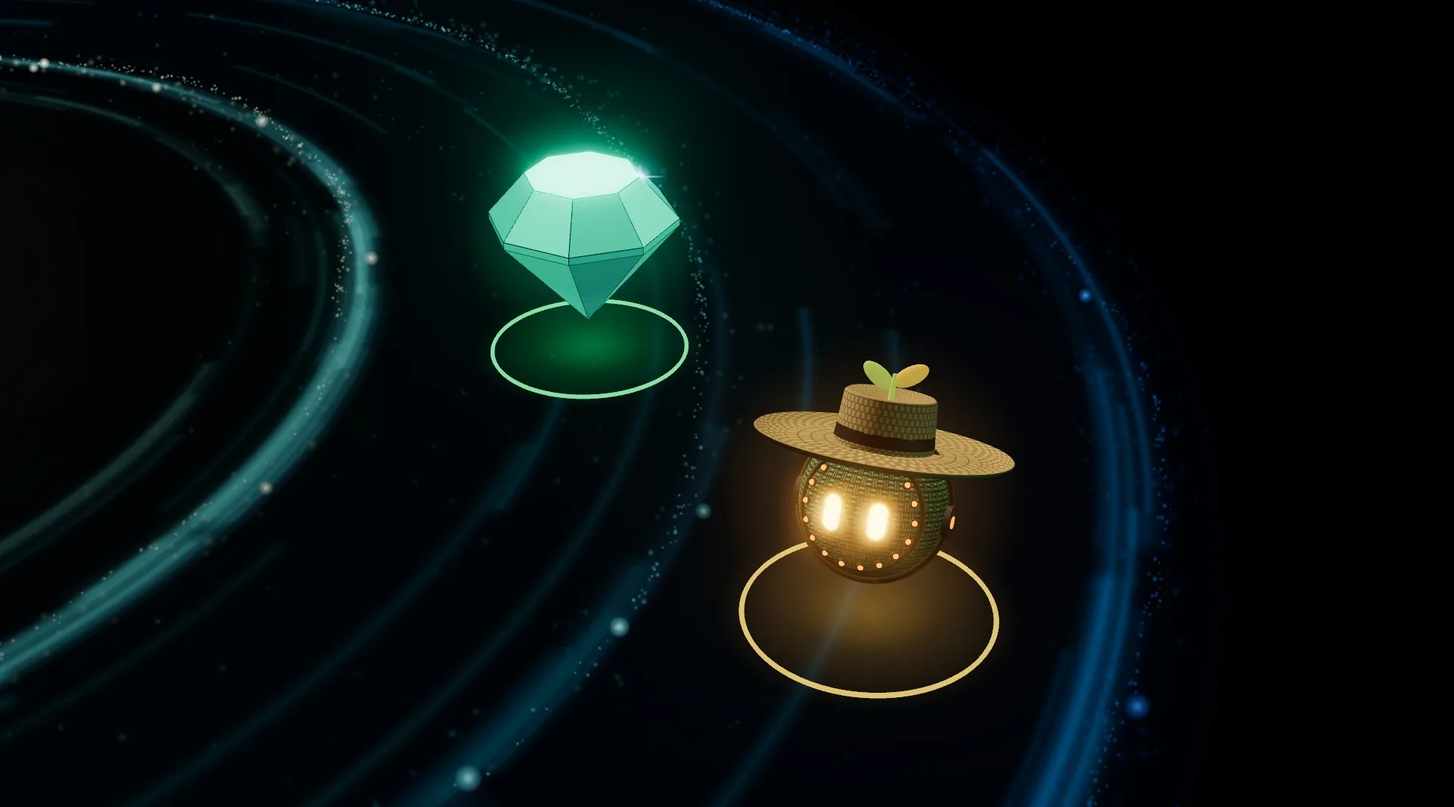
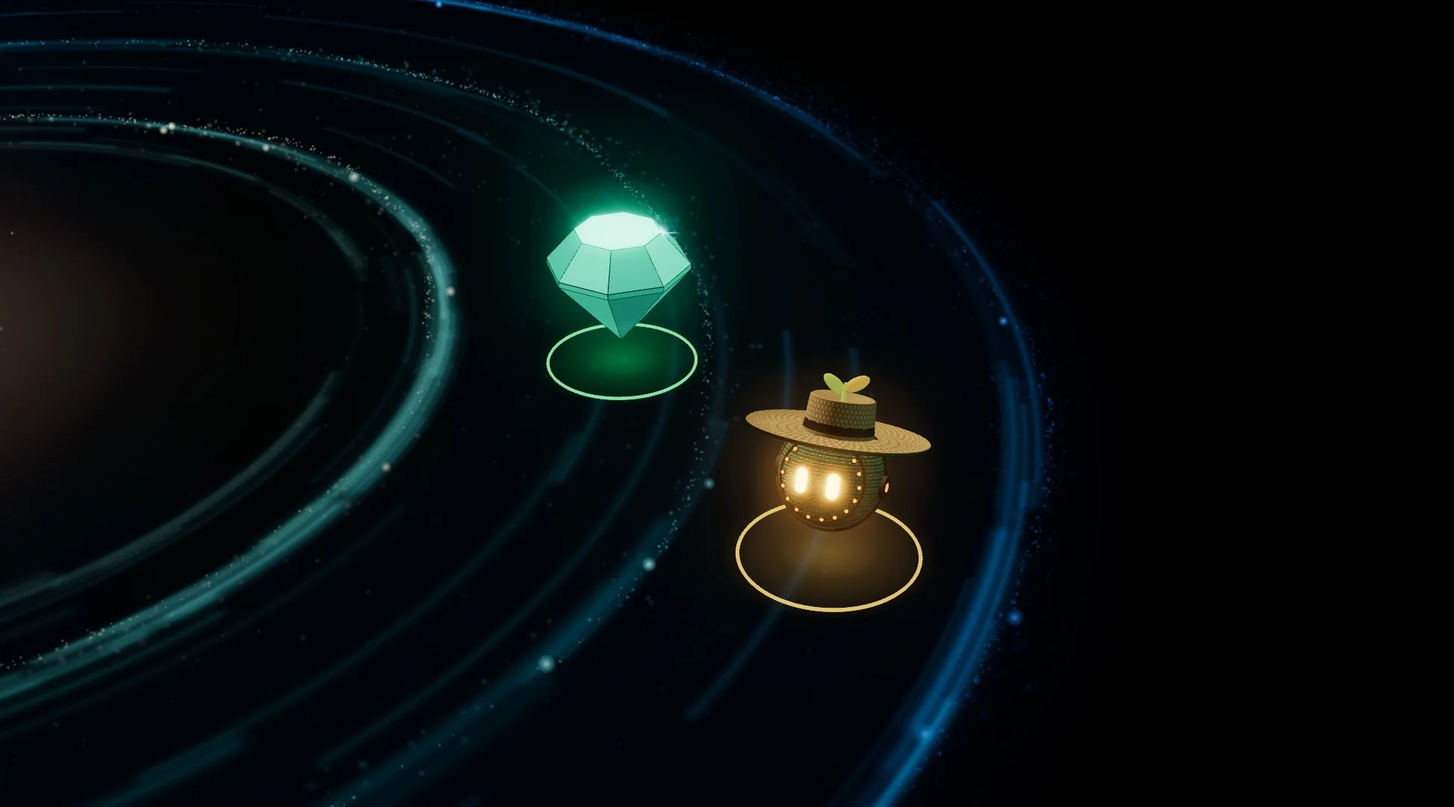
Cymetica Quest steps page, the fourteenth take's second round (the operator: "step 3 to je zas moc velke na orbite ty produkty trochu je zmensi a misto screenu z promo marketu tam dej jen tu 3D krychli a na ni se budou promitat ty produkty", "animace v quant labu ... je takova sekana, mela by byt to
Effort: xhigh

diff --git a/outbox/quest-steps/quest.css b/outbox/quest-steps/quest.css
@@ -132,7 +132,7 @@ h1 b { font-weight: 400; }
 .hero-in .board-wrap { justify-self: end; width: min(100%, 660px); }
 /* Cymetica's sun alone, further off and to the right ("vic doprava a vic do dalky ... vic zarivejsi, ted v nem jsou
    diry"): its light as alpha, over a whole glowing core, so the dark between its strands no longer shows the sky */
-#sun { position: absolute; z-index: 1; left: calc(50% + 810px); top: 160px; width: 340px; transform: translate(-50%, -50%); pointer-events: none; }
+#sun { position: absolute; z-index: 1; left: calc(50% + 918px); top: 268px; width: 340px; transform: translate(-50%, -50%); pointer-events: none; }
 #sun::before { content: ''; position: absolute; left: 49.3%; top: 48.3%; width: 25%; height: 25%; transform: translate(-50%, -50%); border-radius: 50%;
   background: radial-gradient(circle, #fffdf6 0 32%, rgba(255, 232, 186, .96) 52%, rgba(255, 196, 120, .55) 74%, rgba(255, 170, 80, 0) 100%);
   box-shadow: 0 0 34px 12px rgba(255, 214, 150, .5), 0 0 110px 40px rgba(255, 176, 96, .2), 0 0 220px 80px rgba(0, 207, 255, .06); }
@@ -370,33 +370,55 @@ h1 b { font-weight: 400; }
    vetsi at je to stejne jako na jinych krocich"): each its own half, apart, as big as the other steps' pictures allow
    two to be; the Promo Market turned only a little, towards the words, so it reads. Fourteenth take ("ty obezne
    drahy na kterych jsou apky ... jsou asi moc nahore"): the Universe in the middle of the band, big (its right quarter
-   is empty space, so the Promo Market stands in it at the band's foot), its edges melting into the page, the users
-   walking up from the briefs into the farmer's ring */
+   is empty space, so the Promo Market's cube stands beside it), its edges melting into the page, the users walking
+   from the cube into the farmer's ring; the second round, the farmer and the gem filmed from further off ("je zas moc
+   velke na orbite ty produkty trochu je zmensi") */
 .stage.duo { position: relative; perspective: 1600px; width: 134%; margin-left: -24%; height: 700px; }
 .stage.duo .near { position: absolute; z-index: 1; left: 0; top: 50%; width: 80%; transform: translateY(-52%); }
 .stage.duo .near .clip { -webkit-mask-image: linear-gradient(90deg, transparent, #000 9%, #000 88%, transparent), linear-gradient(180deg, transparent, #000 8%, #000 90%, transparent);
   mask-image: linear-gradient(90deg, transparent, #000 9%, #000 88%, transparent), linear-gradient(180deg, transparent, #000 8%, #000 90%, transparent);
   -webkit-mask-composite: source-in; mask-composite: intersect; }
-.stage.duo .promo3d { position: absolute; z-index: 2; right: 0; bottom: 0; width: 42%; }
-.promo3d { position: relative; z-index: 1; transform: rotateY(-14deg) rotateX(4deg) rotateZ(.8deg) scale(.96); transform-origin: 0% 50%; }
-/* their cube, turning as their page turns it (record.py promo_cube), laid where it stands in the picture; its box's
-   edge melts into the picture round it */
-.promo3d .cube { position: absolute; z-index: 1; opacity: .9;
-  -webkit-mask-image: radial-gradient(closest-side, #000 72%, transparent 100%); mask-image: radial-gradient(closest-side, #000 72%, transparent 100%); }
-.promo3d .cube video { width: 100%; height: 100%; object-fit: fill; filter: saturate(1.1) brightness(1.06); }
-.promo3d img { width: 100%; mix-blend-mode: screen; opacity: .9; filter: saturate(1.1) brightness(1.06) drop-shadow(0 0 22px rgba(0, 207, 255, .35));
-  -webkit-mask-image: repeating-linear-gradient(180deg, #000 0 2px, rgba(0, 0, 0, .7) 2px 4px), linear-gradient(90deg, transparent, #000 6%, #000 96%, transparent), linear-gradient(180deg, transparent, #000 5%, #000 88%, transparent);
-  mask-image: repeating-linear-gradient(180deg, #000 0 2px, rgba(0, 0, 0, .7) 2px 4px), linear-gradient(90deg, transparent, #000 6%, #000 96%, transparent), linear-gradient(180deg, transparent, #000 5%, #000 88%, transparent);
-  -webkit-mask-composite: source-in, source-in; mask-composite: intersect; }
-.promo3d::after { content: ''; position: absolute; left: 4%; right: 4%; bottom: -8%; height: 18%; pointer-events: none;
-  background: radial-gradient(closest-side, rgba(0, 207, 255, .28), rgba(0, 207, 255, 0)); filter: blur(8px); }
+/* the Promo Market's cube, big, in place of its page (fourteenth take's second round: "misto screenu z promo marketu
+   tam dej jen tu 3D krychli a na ni se budou promitat ty produkty"): their glass cube of light on its beam, turning,
+   a product's live page projected on each of its four sides; drawn in CSS 3D, so it is sharp at any size and turns at
+   the screen's own rate */
+.cube3d { --h: 6.5vw; position: absolute; z-index: 2; right: 2%; top: 50%; width: 36%; aspect-ratio: 1; margin: 0; transform: translateY(-50%); perspective: 2600px; perspective-origin: 50% 42%; pointer-events: none; }
+.cube3d .halo { position: absolute; inset: 10%; border-radius: 50%; background: radial-gradient(closest-side, rgba(0, 207, 255, .2), rgba(0, 255, 136, .05) 62%, rgba(0, 207, 255, 0)); filter: blur(12px); }
+.cube3d .beam { position: absolute; left: 50%; top: 64%; width: 18%; height: 28%; transform: translateX(-50%); clip-path: polygon(32% 0, 68% 0, 100% 100%, 0 100%);
+  background: linear-gradient(180deg, rgba(0, 207, 255, .32), rgba(0, 207, 255, .08) 70%, rgba(0, 207, 255, 0)); filter: blur(4px); }
+.cube3d .floor { position: absolute; left: 24%; right: 24%; bottom: 3%; height: 9%; border-radius: 50%; background: radial-gradient(closest-side, rgba(0, 255, 136, .32), rgba(0, 207, 255, .1) 62%, rgba(0, 207, 255, 0)); filter: blur(4px); }
+.cube3d .cb { position: absolute; left: 50%; top: 44%; width: calc(var(--h) * 2); height: calc(var(--h) * 2); margin: calc(var(--h) * -1) 0 0 calc(var(--h) * -1);
+  transform-style: preserve-3d; transform: rotateX(-17deg) rotateZ(-7deg); }
+.cube3d .sp { position: absolute; inset: 0; transform-style: preserve-3d; animation: cubespin 32s linear infinite; }
+@keyframes cubespin { from { transform: rotateY(0deg); } to { transform: rotateY(-360deg); } }
+.cube3d .f { position: absolute; inset: 0; border-radius: 6px; }
+.cube3d .fr { transform: translateZ(var(--h)); }
+.cube3d .bk { transform: rotateY(180deg) translateZ(var(--h)); }
+.cube3d .rt { transform: rotateY(90deg) translateZ(var(--h)); }
+.cube3d .lf { transform: rotateY(-90deg) translateZ(var(--h)); }
+.cube3d .tp { transform: rotateX(90deg) translateZ(var(--h)); }
+.cube3d .bt { transform: rotateX(-90deg) translateZ(var(--h)); }
+/* the glass: every side, seen through from behind too */
+.cube3d .g { border: 1.5px solid rgba(110, 235, 255, .55); background: linear-gradient(155deg, rgba(0, 207, 255, .2), rgba(0, 255, 136, .05) 55%, rgba(0, 207, 255, .15));
+  box-shadow: inset 0 0 36px rgba(0, 207, 255, .26), 0 0 22px rgba(0, 207, 255, .2); }
+.cube3d .tp { background: radial-gradient(closest-side, rgba(120, 255, 220, .3), rgba(0, 207, 255, .1)); }
+/* a product projected on a side: only from the front, a hair in front of the glass, with the hologram's lines */
+.cube3d .p { display: flex; flex-direction: column; justify-content: center; align-items: center; gap: 7%; padding: 0 7%; -webkit-backface-visibility: hidden; backface-visibility: hidden; }
+.cube3d .p.fr { transform: translateZ(calc(var(--h) + 1px)); }
+.cube3d .p.bk { transform: rotateY(180deg) translateZ(calc(var(--h) + 1px)); }
+.cube3d .p.rt { transform: rotateY(90deg) translateZ(calc(var(--h) + 1px)); }
+.cube3d .p.lf { transform: rotateY(-90deg) translateZ(calc(var(--h) + 1px)); }
+.cube3d .p img { width: 100%; height: auto; border-radius: 4px; opacity: .93; filter: saturate(1.15) brightness(1.08); box-shadow: 0 0 22px rgba(0, 207, 255, .38); }
+.cube3d .p::after { content: ''; position: absolute; inset: 0; border-radius: 6px; background: repeating-linear-gradient(180deg, rgba(0, 0, 0, 0) 0 2px, rgba(0, 10, 18, .2) 2px 4px); }
+.cube3d .p b { font: 800 max(9px, .62vw) 'JetBrains Mono', monospace; letter-spacing: .16em; text-transform: uppercase; color: #dffcff; text-shadow: 0 0 10px rgba(0, 207, 255, .85); white-space: nowrap; }
+@media (prefers-reduced-motion: reduce) { .cube3d .sp { animation: none; transform: rotateY(-30deg); } }
 .nm { position: absolute; z-index: 3; display: inline-flex; align-items: center; gap: 8px; transform: translate(-50%, -100%); padding: 5px 12px; border-radius: 7px;
   font: 800 16px 'JetBrains Mono'; letter-spacing: .1em; text-transform: uppercase; color: #ffffff; white-space: nowrap;
   background: rgba(5, 7, 12, .78); border: 1px solid rgba(0, 255, 136, .5); box-shadow: 0 0 18px rgba(0, 255, 136, .18); }
 .nm i { width: 8px; height: 8px; border-radius: 50%; background: var(--green); box-shadow: 0 0 10px var(--green); }
-.users { position: absolute; z-index: 3; left: 53%; top: 84%; font: 700 18px 'JetBrains Mono'; color: var(--dim); text-shadow: 0 2px 12px rgba(0, 0, 0, .95); }
+.users { position: absolute; z-index: 3; left: 50%; top: 82%; font: 700 18px 'JetBrains Mono'; color: var(--dim); text-shadow: 0 2px 12px rgba(0, 0, 0, .95); }
 .users b { font: 400 30px 'Archivo Black', sans-serif; color: var(--green); margin-right: 6px; text-shadow: 0 0 18px rgba(0, 255, 136, .6); }
-.plus { position: absolute; z-index: 4; left: 58%; top: 79%; font: 800 20px 'JetBrains Mono'; color: var(--green); opacity: 0; pointer-events: none;
+.plus { position: absolute; z-index: 4; left: 57%; top: 74%; font: 800 20px 'JetBrains Mono'; color: var(--green); opacity: 0; pointer-events: none;
   text-shadow: 0 0 14px rgba(0, 255, 136, .9), 0 2px 10px rgba(0, 0, 0, .9); }
 .plus.go { animation: plus 1.6s var(--ease) forwards; }
 @keyframes plus { 0% { opacity: 0; transform: translate(-50%, 0) scale(.7); } 20% { opacity: 1; transform: translate(-50%, -14px) scale(1.05); } 100% { opacity: 0; transform: translate(-50%, -60px) scale(1); } }
@@ -410,8 +432,12 @@ h1 b { font-weight: 400; }
    vetsi mnohem ten vesmir a ta tabule v nem jakoby mensi, podobne jak to je v live aplikaci"): the whole map, never
    cut (record.py films it with the sun in the middle and room round its outer lane), 1,250 px across at 2000, as far
    left as the words allow (the lane's edge clears "Earn monthly rewards." by 50 px); the board as the live map has its
-   own: small, tilted, in the map's corner over its outer lane, where no company stands (bottom right) */
-.stage.uni .pic { width: 137%; margin-left: -28%; }
+   own: small, tilted, in the map's corner over its outer lane, where no company stands (bottom right). Its second
+   round ("krok 5 musis dat cely universe dolu niz a vedle texty na opacnou stranu otoceny ten screen a to vetsi"): the
+   Universe lowered, the board beside the words above it, turned the other way (towards the map, as the live map's own
+   board is turned), as big as the first screen's nearly */
+#s5 { padding-bottom: 300px; }
+.stage.uni .pic { width: 137%; margin-left: -28%; transform: translateY(var(--uv-down, 270px)); }
 /* under each Universe, filmed on black and keyed, a dark as its own sky was ("tu obeznou drahu top jak byla
    predtim"): its lanes are light of 2 to 7 %, which the page's nebula would wash out; melting away well inside the
    picture, so it has no edge */
@@ -424,40 +450,40 @@ h1 b { font-weight: 400; }
    2026-10-31's fourteenth take) */
 .stage.uni .sun { position: absolute; z-index: 2; left: 50.55%; top: 38.78%; width: 30.5%; transform: translate(-50%, -50%); pointer-events: none; }
 .stage.uni .sun img { width: 100%; }
-.lb-wrap { position: absolute; z-index: 3; right: -9%; top: 65%; width: 300px; perspective: 1400px; perspective-origin: 100% 40%; }
-.lb { padding: 14px 10px 8px; border-radius: 18px; transform: rotateY(-14deg) rotateX(3deg); transform-origin: 100% 50%;
+.lb-wrap { position: absolute; z-index: 3; left: -12.5%; top: -9%; width: 370px; perspective: 1400px; perspective-origin: 0% 40%; }
+.lb { padding: 18px 13px 10px; border-radius: 22px; transform: rotateY(14deg) rotateX(3deg); transform-origin: 0% 50%;
   background: linear-gradient(180deg, rgba(5, 9, 15, .58), rgba(5, 9, 15, .4)); }
 .lb .gh { padding: 0 8px; }
-.lb .gh b { font-size: 15px; }
-.lb .gh .tg { font-size: 9.5px; color: var(--cyan); }
-.lb .gh .dot { width: 8px; height: 8px; animation: blink 1.6s steps(1) infinite; }
+.lb .gh b { font-size: 19px; }
+.lb .gh .tg { font-size: 11.5px; color: var(--cyan); }
+.lb .gh .dot { width: 9px; height: 9px; animation: blink 1.6s steps(1) infinite; }
 /* a row as the first screen's seats: the place, the station, the name over its points, the prize */
-.climb { position: relative; margin-top: 8px; height: calc(6 * 40px); }
-.row { position: absolute; left: 0; right: 0; top: 0; height: 40px; display: grid; grid-template-columns: 22px 26px minmax(0, 1fr) auto; grid-template-rows: auto auto;
-  grid-template-areas: "rk bd nm pz" "rk bd pp pz"; align-content: center; align-items: center; column-gap: 7px; row-gap: 1px;
-  padding: 0 8px; border-radius: 9px; transition: transform .7s var(--ease), background .4s, box-shadow .4s; }
+.climb { position: relative; margin-top: 10px; height: calc(6 * 50px); }
+.row { position: absolute; left: 0; right: 0; top: 0; height: 50px; display: grid; grid-template-columns: 28px 32px minmax(0, 1fr) auto; grid-template-rows: auto auto;
+  grid-template-areas: "rk bd nm pz" "rk bd pp pz"; align-content: center; align-items: center; column-gap: 9px; row-gap: 2px;
+  padding: 0 10px; border-radius: 11px; transition: transform .7s var(--ease), background .4s, box-shadow .4s; }
 .row .rk { grid-area: rk; } .row .badge { grid-area: bd; } .row .nm { grid-area: nm; } .row .pp { grid-area: pp; } .row .pz { grid-area: pz; }
 .row + .row::before { content: ''; position: absolute; left: 10px; right: 10px; top: 0; height: 1px; background: linear-gradient(90deg, rgba(255, 255, 255, 0), rgba(255, 255, 255, .14), rgba(255, 255, 255, 0)); }
-.row .rk { font: 400 16px 'Archivo Black', sans-serif; color: var(--mute); text-align: center; background: none; filter: none; -webkit-background-clip: initial; background-clip: initial; }
+.row .rk { font: 400 20px 'Archivo Black', sans-serif; color: var(--mute); text-align: center; background: none; filter: none; -webkit-background-clip: initial; background-clip: initial; }
 /* the three paid places' numbers as the first screen's board has them, lit from inside */
-.row.p1 .rk, .row.p2 .rk, .row.p3 .rk { font-size: 20px; color: transparent; -webkit-background-clip: text; background-clip: text; }
+.row.p1 .rk, .row.p2 .rk, .row.p3 .rk { font-size: 25px; color: transparent; -webkit-background-clip: text; background-clip: text; }
 .row.p1 .rk { background-image: linear-gradient(180deg, #eafff4, var(--rs1) 55%, #00a067); filter: drop-shadow(0 0 12px rgba(0, 255, 136, .65)); }
 .row.p2 .rk { background-image: linear-gradient(180deg, #e6fbff, var(--rs2) 55%, #0086b5); filter: drop-shadow(0 0 10px rgba(0, 207, 255, .55)); }
 .row.p3 .rk { background-image: linear-gradient(180deg, #e3edff, var(--rs3) 55%, #1d4ea8); filter: drop-shadow(0 0 9px rgba(59, 130, 246, .5)); }
-.row .badge { width: 24px; height: 24px; border-radius: 50%; overflow: hidden; background: #07101c; box-shadow: inset 0 0 0 1px rgba(255, 255, 255, .3), 0 0 0 2px rgba(30, 48, 80, .9); }
+.row .badge { width: 30px; height: 30px; border-radius: 50%; overflow: hidden; background: #07101c; box-shadow: inset 0 0 0 1px rgba(255, 255, 255, .3), 0 0 0 2px rgba(30, 48, 80, .9); }
 .row.p1 .badge { box-shadow: inset 0 0 0 1px rgba(255, 255, 255, .4), 0 0 0 2px var(--rs1), 0 0 16px rgba(0, 255, 136, .45); }
 .row.p2 .badge { box-shadow: inset 0 0 0 1px rgba(255, 255, 255, .4), 0 0 0 2px var(--rs2), 0 0 14px rgba(0, 207, 255, .4); }
 .row.p3 .badge { box-shadow: inset 0 0 0 1px rgba(255, 255, 255, .4), 0 0 0 2px var(--rs3), 0 0 12px rgba(59, 130, 246, .4); }
 .row .badge img { width: 100%; height: 100%; object-fit: cover; transform: scale(1.55); }
 .row .nm { position: static; transform: none; padding: 0; border: 0; background: none; box-shadow: none; text-transform: none; letter-spacing: 0;
-  font: 700 11.5px Inter, sans-serif; color: var(--text); overflow: hidden; text-overflow: ellipsis; display: flex; align-items: center; gap: 5px; white-space: nowrap; }
-.row .nm em { flex: none; font: 800 7.5px 'JetBrains Mono'; font-style: normal; letter-spacing: .12em; text-transform: uppercase; padding: 1px 4px; border-radius: 4px; color: #03140c; background: var(--green); }
-.row .pp { display: flex; align-items: center; gap: 5px; font: 600 9.5px 'JetBrains Mono'; color: var(--mute); white-space: nowrap; }
-.row .pp b { font: 800 11px 'JetBrains Mono'; color: var(--text); }
-.row .bar { position: relative; width: 30px; height: 3px; border-radius: 3px; background: rgba(30, 48, 80, .9); overflow: hidden; }
+  font: 700 13.5px Inter, sans-serif; color: var(--text); overflow: hidden; text-overflow: ellipsis; display: flex; align-items: center; gap: 5px; white-space: nowrap; }
+.row .nm em { flex: none; font: 800 8.5px 'JetBrains Mono'; font-style: normal; letter-spacing: .12em; text-transform: uppercase; padding: 1px 4px; border-radius: 4px; color: #03140c; background: var(--green); }
+.row .pp { display: flex; align-items: center; gap: 6px; font: 600 11px 'JetBrains Mono'; color: var(--mute); white-space: nowrap; }
+.row .pp b { font: 800 13px 'JetBrains Mono'; color: var(--text); }
+.row .bar { position: relative; width: 38px; height: 4px; border-radius: 3px; background: rgba(30, 48, 80, .9); overflow: hidden; }
 .row .bar i { position: absolute; left: 0; top: 0; bottom: 0; border-radius: 3px; background: linear-gradient(90deg, var(--cyan), var(--blue)); }
 .row.paid .bar i { background: linear-gradient(90deg, var(--cyan), var(--green)); }
-.row .pz { min-width: 0; font: 800 10.5px 'JetBrains Mono'; text-align: right; color: var(--mute); white-space: nowrap; }
+.row .pz { min-width: 0; font: 800 12.5px 'JetBrains Mono'; text-align: right; color: var(--mute); white-space: nowrap; }
 .row.p1 .pz { color: var(--rs1); text-shadow: 0 0 14px rgba(0, 255, 136, .5); } .row.p2 .pz { color: var(--rs2); } .row.p3 .pz { color: var(--rs3); }
 /* yours: its own dark glass, so the row it passes slides under it and never shows through ("Sigma Collective" and
    "Your company" stood on top of each other mid-pass); lifted towards you while it passes */
@@ -474,8 +500,8 @@ h1 b { font-weight: 400; }
 .final { position: relative; padding: 20px 4.5vw 200px; }
 .final::before { content: ''; position: absolute; left: 50%; top: 45%; width: 1500px; height: 620px; transform: translate(-50%, -50%); z-index: -1;
   background: radial-gradient(closest-side, rgba(0, 255, 136, .1), rgba(0, 207, 255, .05) 55%, rgba(0, 207, 255, 0)); pointer-events: none; }
-.doors { display: grid; grid-template-columns: repeat(2, minmax(0, 760px)); justify-content: center; gap: 44px; }
-.door { --cr: 0, 255, 136; --c: var(--green); position: relative; display: flex; flex-direction: column; border-radius: 26px; overflow: hidden; isolation: isolate;
+.doors { display: grid; grid-template-columns: repeat(2, minmax(0, 608px)); justify-content: center; gap: 36px; }
+.door { --cr: 0, 255, 136; --c: var(--green); position: relative; display: flex; flex-direction: column; border-radius: 21px; overflow: hidden; isolation: isolate;
   background: linear-gradient(180deg, rgba(8, 14, 24, .2), rgba(5, 9, 15, .8));
   box-shadow: inset 0 1px 0 rgba(255, 255, 255, .7), inset 0 0 0 1px rgba(var(--cr), .38), 0 0 60px rgba(var(--cr), .12), 0 30px 60px rgba(0, 0, 0, .45);
   transition: transform .5s var(--ease), box-shadow .5s; }
@@ -495,17 +521,17 @@ h1 b { font-weight: 400; }
 /* the Universe's sun where the live one stands in the clip (step 5's, moved by the picture's crop to 16:9) */
 .door .art .sun { position: absolute; z-index: 2; left: 50.6%; top: 38.8%; width: 31.9%; transform: translate(-50%, -50%); pointer-events: none; }
 .door .art .sun img { width: 100%; }
-.door .cta { position: relative; z-index: 4; display: flex; align-items: center; gap: 22px; margin-top: -64px; padding: 0 28px 28px 32px; }
-.door .cta .t { flex: none; font: 400 32px/1.04 'Archivo Black', sans-serif; color: #ffffff; text-transform: uppercase; letter-spacing: .01em; text-shadow: 0 3px 18px rgba(0, 0, 0, .9); }
+.door .cta { position: relative; z-index: 4; display: flex; align-items: center; gap: 18px; margin-top: -51px; padding: 0 22px 22px 26px; }
+.door .cta .t { flex: none; font: 400 26px/1.04 'Archivo Black', sans-serif; color: #ffffff; text-transform: uppercase; letter-spacing: .01em; text-shadow: 0 3px 18px rgba(0, 0, 0, .9); }
 .door .cta .t span { color: var(--c); text-shadow: 0 0 24px rgba(var(--cr), .55), 0 3px 18px rgba(0, 0, 0, .9); }
 .door .cta .ray { flex: 1; height: 2px; border-radius: 2px; background: linear-gradient(90deg, rgba(var(--cr), 0), rgba(var(--cr), .85) 80%, #ffffff); box-shadow: 0 0 10px rgba(var(--cr), .6); }
-.door .arr { position: relative; flex: none; width: 70px; height: 70px; border-radius: 50%; display: grid; place-items: center; color: #03140c;
+.door .arr { position: relative; flex: none; width: 56px; height: 56px; border-radius: 50%; display: grid; place-items: center; color: #03140c;
   background: radial-gradient(circle at 50% 30%, #ffffff, rgba(var(--cr), 1) 48%, rgba(var(--cr), .78));
   box-shadow: inset 0 0 0 1px rgba(255, 255, 255, .6), 0 0 26px rgba(var(--cr), .75), 0 0 70px rgba(var(--cr), .35); transition: transform .4s var(--ease), box-shadow .4s; }
 .door.uv .arr { color: #021219; }
-.door .arr::before { content: ''; position: absolute; inset: -9px; border-radius: 50%; box-shadow: 0 0 0 1px rgba(var(--cr), .6); animation: ping 2.4s var(--ease) infinite; }
+.door .arr::before { content: ''; position: absolute; inset: -7px; border-radius: 50%; box-shadow: 0 0 0 1px rgba(var(--cr), .6); animation: ping 2.4s var(--ease) infinite; }
 .door.uv .arr::before { animation-delay: 1.2s; }
-.door .arr svg { width: 30px; height: 30px; fill: none; stroke: currentColor; stroke-width: 2.8; stroke-linecap: round; stroke-linejoin: round; transition: transform .35s var(--ease); }
+.door .arr svg { width: 24px; height: 24px; fill: none; stroke: currentColor; stroke-width: 2.8; stroke-linecap: round; stroke-linejoin: round; transition: transform .35s var(--ease); }
 .door:hover .arr { transform: scale(1.08); box-shadow: inset 0 0 0 1px #ffffff, 0 0 36px rgba(var(--cr), .95), 0 0 100px rgba(var(--cr), .5); }
 .door:hover .arr svg { transform: translateX(5px); }
 
@@ -560,9 +586,9 @@ h1 b { font-weight: 400; }
   .tube .track { display: none; }
   .ch b { font-size: 12px; }
   .stage.duo { display: grid; grid-template-columns: 1fr; height: auto; }
-  .stage.duo .near, .stage.duo .promo3d { position: relative; left: auto; right: auto; top: auto; bottom: auto; width: 100%; }
+  .stage.duo .near, .stage.duo .cube3d { position: relative; left: auto; right: auto; top: auto; bottom: auto; width: 100%; }
   .stage.duo .near { transform: none; }
-  .promo3d { transform: rotateY(24deg) rotateX(6deg) scale(.96); }
+  .cube3d { --h: 20vw; transform: none; width: 80%; margin: 0 auto; }
   .stage.duo .near { width: 96%; margin: 4% 0 0 auto; }
   .nm { font-size: 12px; padding: 3px 8px; }
   .users { font-size: 14px; } .users b { font-size: 22px; }

diff --git a/outbox/quest-steps/index.html b/outbox/quest-steps/index.html
@@ -100,11 +100,19 @@
     </div>
     <div class="num" aria-hidden="true">03</div>
     <div class="stage duo rv">
-      <figure class="promo3d"><img src="pics/promo.webp" alt="The Promo Market with its cube of light and three briefs up for grabs" width="2768" height="2098" loading="lazy">
-        <div class="clip cube" data-anim="promo-cube" style="left: 64.58%; top: 12.16%; width: 22.55%; height: 32.64%"><video muted playsinline loop preload="none" poster="pics/promo-cube.webp" width="624" height="716"><source src="clips/promo-cube.webm" type="video/webm"></video></div></figure>
+      <figure class="cube3d" aria-label="The Promo Market's cube, your products projected on it">
+        <span class="halo"></span><span class="beam"></span><span class="floor"></span>
+        <div class="cb"><div class="sp">
+          <span class="f g fr"></span><span class="f g bk"></span><span class="f g rt"></span><span class="f g lf"></span><span class="f g tp"></span><span class="f g bt"></span>
+          <span class="f p fr"><img src="pics/apps/airdrop-farmer.webp" alt="" width="560" height="315"><b>Airdrop Farmer</b></span>
+          <span class="f p rt"><img src="pics/apps/gem-screener.webp" alt="" width="560" height="315"><b>Gem Screener</b></span>
+          <span class="f p bk"><img src="pics/apps/agent-casino.webp" alt="" width="560" height="315"><b>Agent Casino</b></span>
+          <span class="f p lf"><img src="pics/apps/chart-analyzer.webp" alt="" width="560" height="315"><b>Chart Analyzer</b></span>
+        </div></div>
+      </figure>
       <figure class="pic near">
         <div class="clip xf" data-anim="farmer" data-key="glow"><video muted playsinline preload="none" poster="pics/farmer.webp" width="1947" height="1081"><source src="clips/farmer.webm" type="video/webm"></video></div>
-        <span class="nm" style="left: 60.1%; top: 41.3%"><i></i>Airdrop Farmer</span><span class="nm" style="left: 40.3%; top: 14.7%"><i></i>Gem Screener</span>
+        <span class="nm" style="left: 57.2%; top: 42.7%"><i></i>Airdrop Farmer</span><span class="nm" style="left: 42.6%; top: 22.4%"><i></i>Gem Screener</span>
         <span class="users"><b>0</b> new users</span><span class="plus">+1 user</span>
       </figure>
       <svg class="flow" data-anim="flow" aria-hidden="true"></svg>

diff --git a/outbox/quest-steps/anim.js b/outbox/quest-steps/anim.js
@@ -346,12 +346,13 @@
   /* ---------------- step 3: users walk from the briefs to the product ---------------- */
   (function () {
     var svg = document.querySelector('[data-anim=flow]'); if (!svg) return;
-    var stage = svg.parentElement, promo = stage.querySelector('.promo3d img'), near = stage.querySelector('.near');
+    var stage = svg.parentElement, promo = stage.querySelector('.cube3d'), near = stage.querySelector('.near');
     var count = stage.querySelector('.users b'), pop = stage.querySelector('.plus');
     var NS = svg.namespaceURI, paths = [], dots = [], users = 0;
-    // the briefs' "See my offer" buttons in promo.webp (x, y in %), and the farmer's ring in its clip, its right side
-    // (fourteenth take: the farmer on its lane, record.py FARMER_LANES; the users come in to its ring, never across it)
-    var FROM = [[17, 93], [50, 93], [83, 93]], TO = [66, 76];
+    // from the Promo Market's cube, its foot where its beam stands (x, y in % of its box), to the farmer's ring in its
+    // clip, its right side (fourteenth take: the farmer on its lane, record.py FARMER_LANES; the users come in to its
+    // ring, never across it)
+    var FROM = [[42, 70], [50, 76], [58, 70]], TO = [61, 69];
     FROM.forEach(function () { var p = document.createElementNS(NS, 'path'); p.setAttribute('class', 'fl'); svg.appendChild(p); paths.push(p); });
     // ("step 4 animace je moc rychla"): six users at a time, each 5.2 s from a brief to the product
     var PER = 5.2;

diff --git a/outbox/quest-steps/record.py b/outbox/quest-steps/record.py
@@ -173,18 +173,22 @@ LAB_STAGES, LAB_FOUND = 16.6, 7.0
 LAB_BIRTH = round(LAB_STAGES + 0.16 * LAB_FOUND, 2)
 
 
-def lab(b):
+# every CSS animation and transition held still and set to the clock's time, as it is first seen (the page's own clock
+# is Playwright's below; a CSS one would run on in real time while each frame is photographed)
+HOLD_CSS = """(vt) => { const seen = window.__seen || (window.__seen = new WeakMap());
+  document.getAnimations().forEach(a => { if (!seen.has(a)) { seen.set(a, vt); a.pause(); } a.currentTime = (vt - seen.get(a)) * 1000; }); }"""
+
+
+def lab(b, fps=30):
     """step 4: the Quant Lab's page in its Coming soon mode (outbox/quant-lab-v2, another session's page, served here
     and read only), whole from its heading to its reactor ("zobrazit celkove tu stranku i s tim nadpisem quant lab"):
-    its five stages at their own pace, BUILD to FOUND, the agent born at LAB_BIRTH. It draws CoinGecko's coin logos
-    into its canvas, which taints it, and a tainted canvas's own stream stops: so the window is filmed instead
-    (Playwright's video) and cut by ffmpeg"""
-    import shutil
+    its five stages at their own pace, BUILD to FOUND, the agent born at LAB_BIRTH. Fourteenth take ("animace v quant
+    labu se mi zda ze je takova sekana, mela by byt top plynula jak v nasi strance"): drawn frame by frame on
+    Playwright's clock, `fps` a second, every frame a step of the same length (the window's own video was 25 a second,
+    as its screencast delivered them); its canvas cannot be streamed (CoinGecko's logos taint it)"""
     vw, vh, total = 1400, 1100, LAB_STAGES + LAB_FOUND   # 1400 wide: its six score tiles stay one row
-    tmpdir = Path(tempfile.mkdtemp())
-    ctx = b.new_context(viewport={'width': vw, 'height': vh}, device_scale_factor=1, record_video_dir=str(tmpdir), record_video_size={'width': vw, 'height': vh})
-    t0 = time.time()
-    page = ctx.new_page()
+    page = b.new_page(viewport={'width': vw, 'height': vh}, device_scale_factor=1)
+    page.clock.install()
     page.goto(capture.serve(capture.OUTBOX / 'quant-lab-v2') + '?mode=sim', wait_until='load', timeout=60000)
     page.wait_for_function("() => document.fonts.status === 'loaded' && document.querySelector('#rx').width > 0", timeout=60000)
     page.evaluate("() => document.querySelector('.q2-hero').scrollIntoView({ block: 'start' })")
@@ -192,17 +196,25 @@ def lab(b):
     time.sleep(3)
     r = page.evaluate("""() => { const a = document.querySelector('.q2-hero').getBoundingClientRect(), b = document.querySelector('.q2-reactor').getBoundingClientRect();
       return [Math.min(a.left, b.left) - 6, a.top - 10, Math.max(a.right, b.right) - Math.min(a.left, b.left) + 12, b.bottom - a.top + 12].map(Math.round); }""")
-    page.click('#rail [data-st="0"]')           # from the top: BUILD
-    start = time.time() - t0
-    time.sleep(total + 0.6)
-    video = page.video.path()
-    ctx.close()
-    CLIPS.mkdir(exist_ok=True)
     x, y, w, h = r[0] // 2 * 2, r[1] // 2 * 2, r[2] // 2 * 2, r[3] // 2 * 2
-    ffmpeg('-ss', f'{start:.2f}', '-i', str(video), '-t', str(total), '-vf', f'crop={w}:{h}:{x}:{y}', '-c:v', 'libvpx', '-b:v', '6M', '-crf', '8',
-           '-qmin', '2', '-qmax', '30', '-auto-alt-ref', '0', '-pix_fmt', 'yuv420p', str(CLIPS / 'lab.webm'))
-    shutil.rmtree(tmpdir, ignore_errors=True)
-    print('lab: the page', w, 'x', h, 'from', round(start, 2), 's,', total, 's, the agent born at', LAB_BIRTH, 's,',
+    page.clock.pause_at(page.evaluate('Date.now()') + 200)
+    page.evaluate("""() => document.querySelector('#rail [data-st="0"]').click()""")   # from the top: BUILD, at the clock's time
+    frames, done = [], 0
+    for i in range(int(round(total * fps))):
+        page.evaluate(HOLD_CSS, i / fps)
+        frames.append(page.screenshot(clip={'x': x, 'y': y, 'width': w, 'height': h}, type='jpeg', quality=93))
+        step = round((i + 1) * 1000 / fps) - done
+        page.clock.run_for(step)
+        done += step
+    page.close()
+    CLIPS.mkdir(exist_ok=True)
+    fd, tmp = tempfile.mkstemp(suffix='.mjpeg')
+    os.close(fd)
+    Path(tmp).write_bytes(b''.join(frames))
+    ffmpeg('-f', 'image2pipe', '-c:v', 'mjpeg', '-framerate', str(fps), '-i', tmp, '-c:v', 'libvpx', '-b:v', '8M', '-crf', '6',
+           '-qmin', '2', '-qmax', '28', '-auto-alt-ref', '0', '-g', str(fps), '-pix_fmt', 'yuv420p', str(CLIPS / 'lab.webm'))
+    Path(tmp).unlink()
+    print('lab: the page', w, 'x', h, len(frames), 'frames at', fps, 'a second, the agent born at', LAB_BIRTH, 's,',
           (CLIPS / 'lab.webm').stat().st_size // 1024, 'KB')
     frame_poster('lab', LAB_BIRTH + 2.0)        # the agent found
 
@@ -223,7 +235,8 @@ def doors(b, seconds=12):
 
 # fourteenth take ("si nejak smazal ty obezne drahy na kterych jsou apky ve vesmiru ... jsou asi moc nahore"): the
 # farmer and the gem each set on a lane of the map (laneDefs: the farmer on the third out, the gem on the second, a
-# third of a radian on), the camera raised 0.55 rad over them and 7 farmer heights off, so the lanes run round and under
+# third of a radian on), the camera raised 0.55 rad over them and 9.5 farmer heights off (7 made them "moc velke na
+# orbite"), so the lanes run round and under
 # both instead of across the top of the picture; and the map's arcs off (u3d.js arc(): the streaks of work going in to
 # Cymetica, which crossed the farmer: "co je to jako za animace nejakeho pruhu pres ty apky")
 FARMER_LANES = """() => { const uv = CO.uv, V = uv.camera.position.constructor, up = new V(0, 1, 0);
@@ -232,7 +245,7 @@ FARMER_LANES = """() => { const uv = CO.uv, V = uv.camera.position.constructor, 
   uv.items.forEach(x => { if (x !== F && x !== G && x.plot) x.plot.root.visible = false; });
   F.orbit = null; G.orbit = null; uv.follow = null; uv.controls.autoRotate = false;
   const f0 = F.plot.root.position.clone(), h = (F.plot.top - F.plot.bot) * F.plot.k, a0 = Math.atan2(f0.x, f0.z);
-  const lanes = uv.laneDefs.map(l => l.r).sort((a, b) => a - b), el = 0.55, dist = 7, az = 1.25, ga = 0.32;
+  const lanes = uv.laneDefs.map(l => l.r).sort((a, b) => a - b), el = 0.55, dist = 9.5, az = 1.25, ga = 0.32;
   const f = new V(Math.sin(a0) * lanes[2], f0.y, Math.cos(a0) * lanes[2]), g = new V(Math.sin(a0 + ga) * lanes[1], f0.y, Math.cos(a0 + ga) * lanes[1]);
   F.plot.root.position.copy(f); G.plot.root.position.copy(g);
   const out = new V(f.x, 0, f.z).normalize(), along = up.clone().cross(out).normalize();

diff --git a/outbox/quest-steps/README.md b/outbox/quest-steps/README.md
@@ -51,6 +51,16 @@ revenue share), which is unchanged.
      the whole live Universe, filmed with its sun in the middle and its outer lane whole, 1,250 px across; the board
      300 px, tilted, in its bottom-right corner over the outer lane, where no company stands, as the live map has its
      own.
+   - **Its second round**, the same evening:
+     - **Step 3**: the farmer and the gem filmed from further off ("je zas moc velke na orbite ty produkty"); the
+       Promo Market's page gone, its cube in its place, big ("misto screenu ... jen tu 3D krychli a na ni se budou
+       promitat ty produkty"): CSS 3D glass on its beam, turning in 32 s, four live product pages on its sides.
+     - **Step 4**: the Quant Lab drawn frame by frame on Playwright's clock, 30 frames a second, none repeated ("je
+       takova sekana, mela by byt top plynula"); the window's video before was 25 a second, as its screencast came.
+     - **Step 5**: the Universe 270 px lower ("dat cely universe dolu niz"), the board beside the words above it,
+       turned towards the map, 370 px ("vedle texty na opacnou stranu otoceny ten screen a to vetsi"), clear of every
+       company.
+     - **The first screen's sun** a ball's length (108 px) right and down; **the doors** a fifth smaller.
 13. **ad9510a3** (2026-10-31), after the twelfth:
    - **No hexagon** in the mark or the track ("nelibi se mi ten hexagon co pouzivas v logu a stepech"): the mark a
      green sun with a world going round it on its orbit, the track's steps round lights, the pipeline's mark a ring.
@@ -128,7 +138,7 @@ goes to him.
 | 01 | the HQ, astronauts at work | LIVE cymetica.com/company/app/builder, recorded without its sky and drifting rocks, keyed; its four departments and nine agents are the live builder's pre-build (builder.js PRE, data.js TEMPLATES) |
 | 02 | the workshop and the pipeline | our three.js scene and anim.js; Build it Better's name and hexagons from its own picture (og/app/build-it-better.png); the ideas map to real Build it Better products |
 | 02 | the ring of products | LIVE: each product's own page, captured (capture.py apps) |
-| 03 | the Promo Market and the Airdrop Farmer | their page through our read-only mirror with three sample briefs, its own cube turning (their CSS, filmed frame by frame); our Universe mock, composed |
+| 03 | the Promo Market's cube and the Airdrop Farmer | their cube's look (glass of light on a beam) drawn by us in CSS 3D, four live product pages (capture.py apps) projected on its sides; our Universe mock, composed |
 | 04 | the Quant Lab's page | outbox/quant-lab-v2's Coming soon mode, at its own pace: a simulation, and it says so on screen |
 | 05 | the Universe | LIVE cymetica.com/company/app#universe, recorded without its sky, keyed: its six companies and four products today, and the leaderboard's eight sample companies added to its answer in our browser |
 | 05 | the leaderboard | samples (QUEST.board), with our mock's stations as marks |
@@ -154,7 +164,8 @@ goes to him.
 - **The first screen's words**: "Cymetica Quest." first and green, then "Join. Earn points. / Climb the leaderboard.
   / Earn up to 500,000 ET10 / every month." with the prize green; he left the opening to us ("CYMETICA QUEST zelene
   nebo join? ... musis to vymyslet").
-- **The first screen's sun** is about 80 px across its ball at 2000 px wide, top right over the board.
+- **The first screen's sun** is about 108 px across its ball at 2000 px wide, top right over the board, a ball's length
+  right and down from where it stood (2026-10-31).
 - **The Quant Lab** carries the Promo Market's scan lines too, faintly; he once said not to make it holographic, and
   this round asked for it set into space as the Promo Market is.
 - **Step 5 is the live Universe** with the leaderboard's eight sample companies added in our recording browser, so
